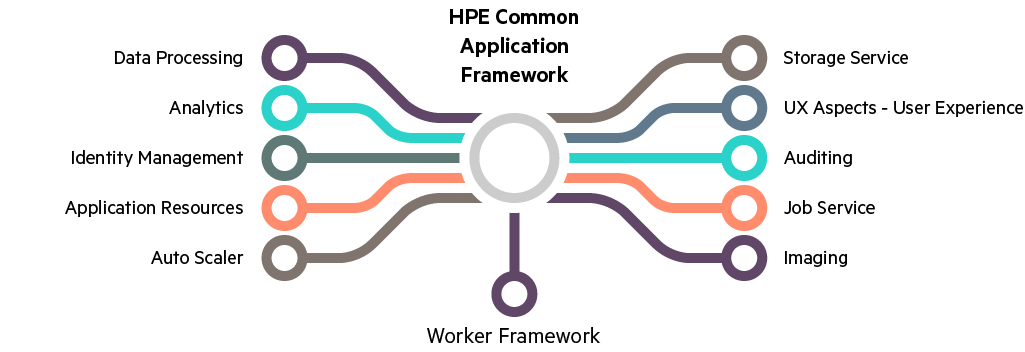
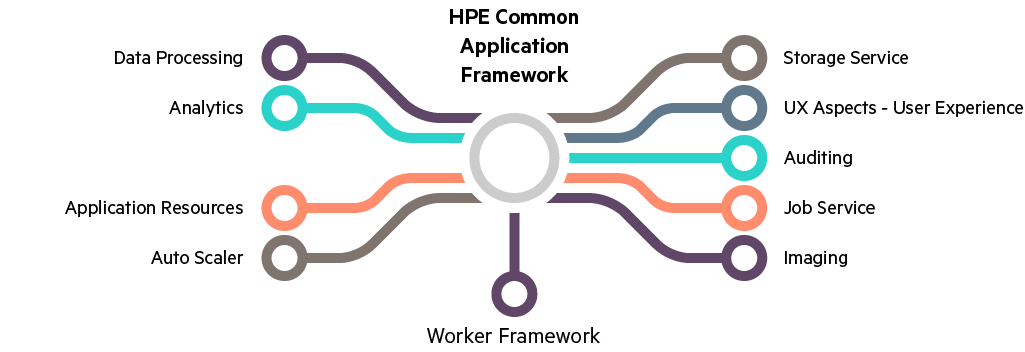
Updates

Changed region(s): [[0.0624, 0.375, 0.4683, 0.5312]]

diff --git a/assets/sections.js b/assets/sections.js
@@ -66,16 +66,6 @@ angular.module('cafapi.templates', []).run(['$templateCache', function($template
   );
 
 
-  $templateCache.put('showcase/en-us/services/identity_management.md',
-    "The Identity Management service provides authentication and authorization of end users as well as other, related micro-services. The Identity\n" +
-    "Management service implements authentication and authorization of end users as well as other, related micro-services. Authentication uses the\n" +
-    "industry standard OAUTH 2.0 protocol with encrypted tokens of varying life spans. For user management, Identity Management supports\n" +
-    "enterprise hierarchy and AD/LDAP for customer hierarchy. Any number of applications can register their roles and permissions with the service.\n" +
-    "Application administrators can assign application-specific roles and permissions to users. Leveraging this service relieves you of having to create\n" +
-    "these core building blocks of any SaaS application on your own.\n"
-  );
-
-
   $templateCache.put('showcase/en-us/services/imaging.md',
     "The Imaging service provides the ability to convert between HTML and searchable PDF, as well as between PDF and JPEG, PNG, TIFF and other common image formats. In addition to format conversion, the Imaging service supports document mark-up with redactions and endorsements. Redactions can permanently remove sensitive content from documents while endorsements can add text annotations to documents.\n" +
     "\n"
